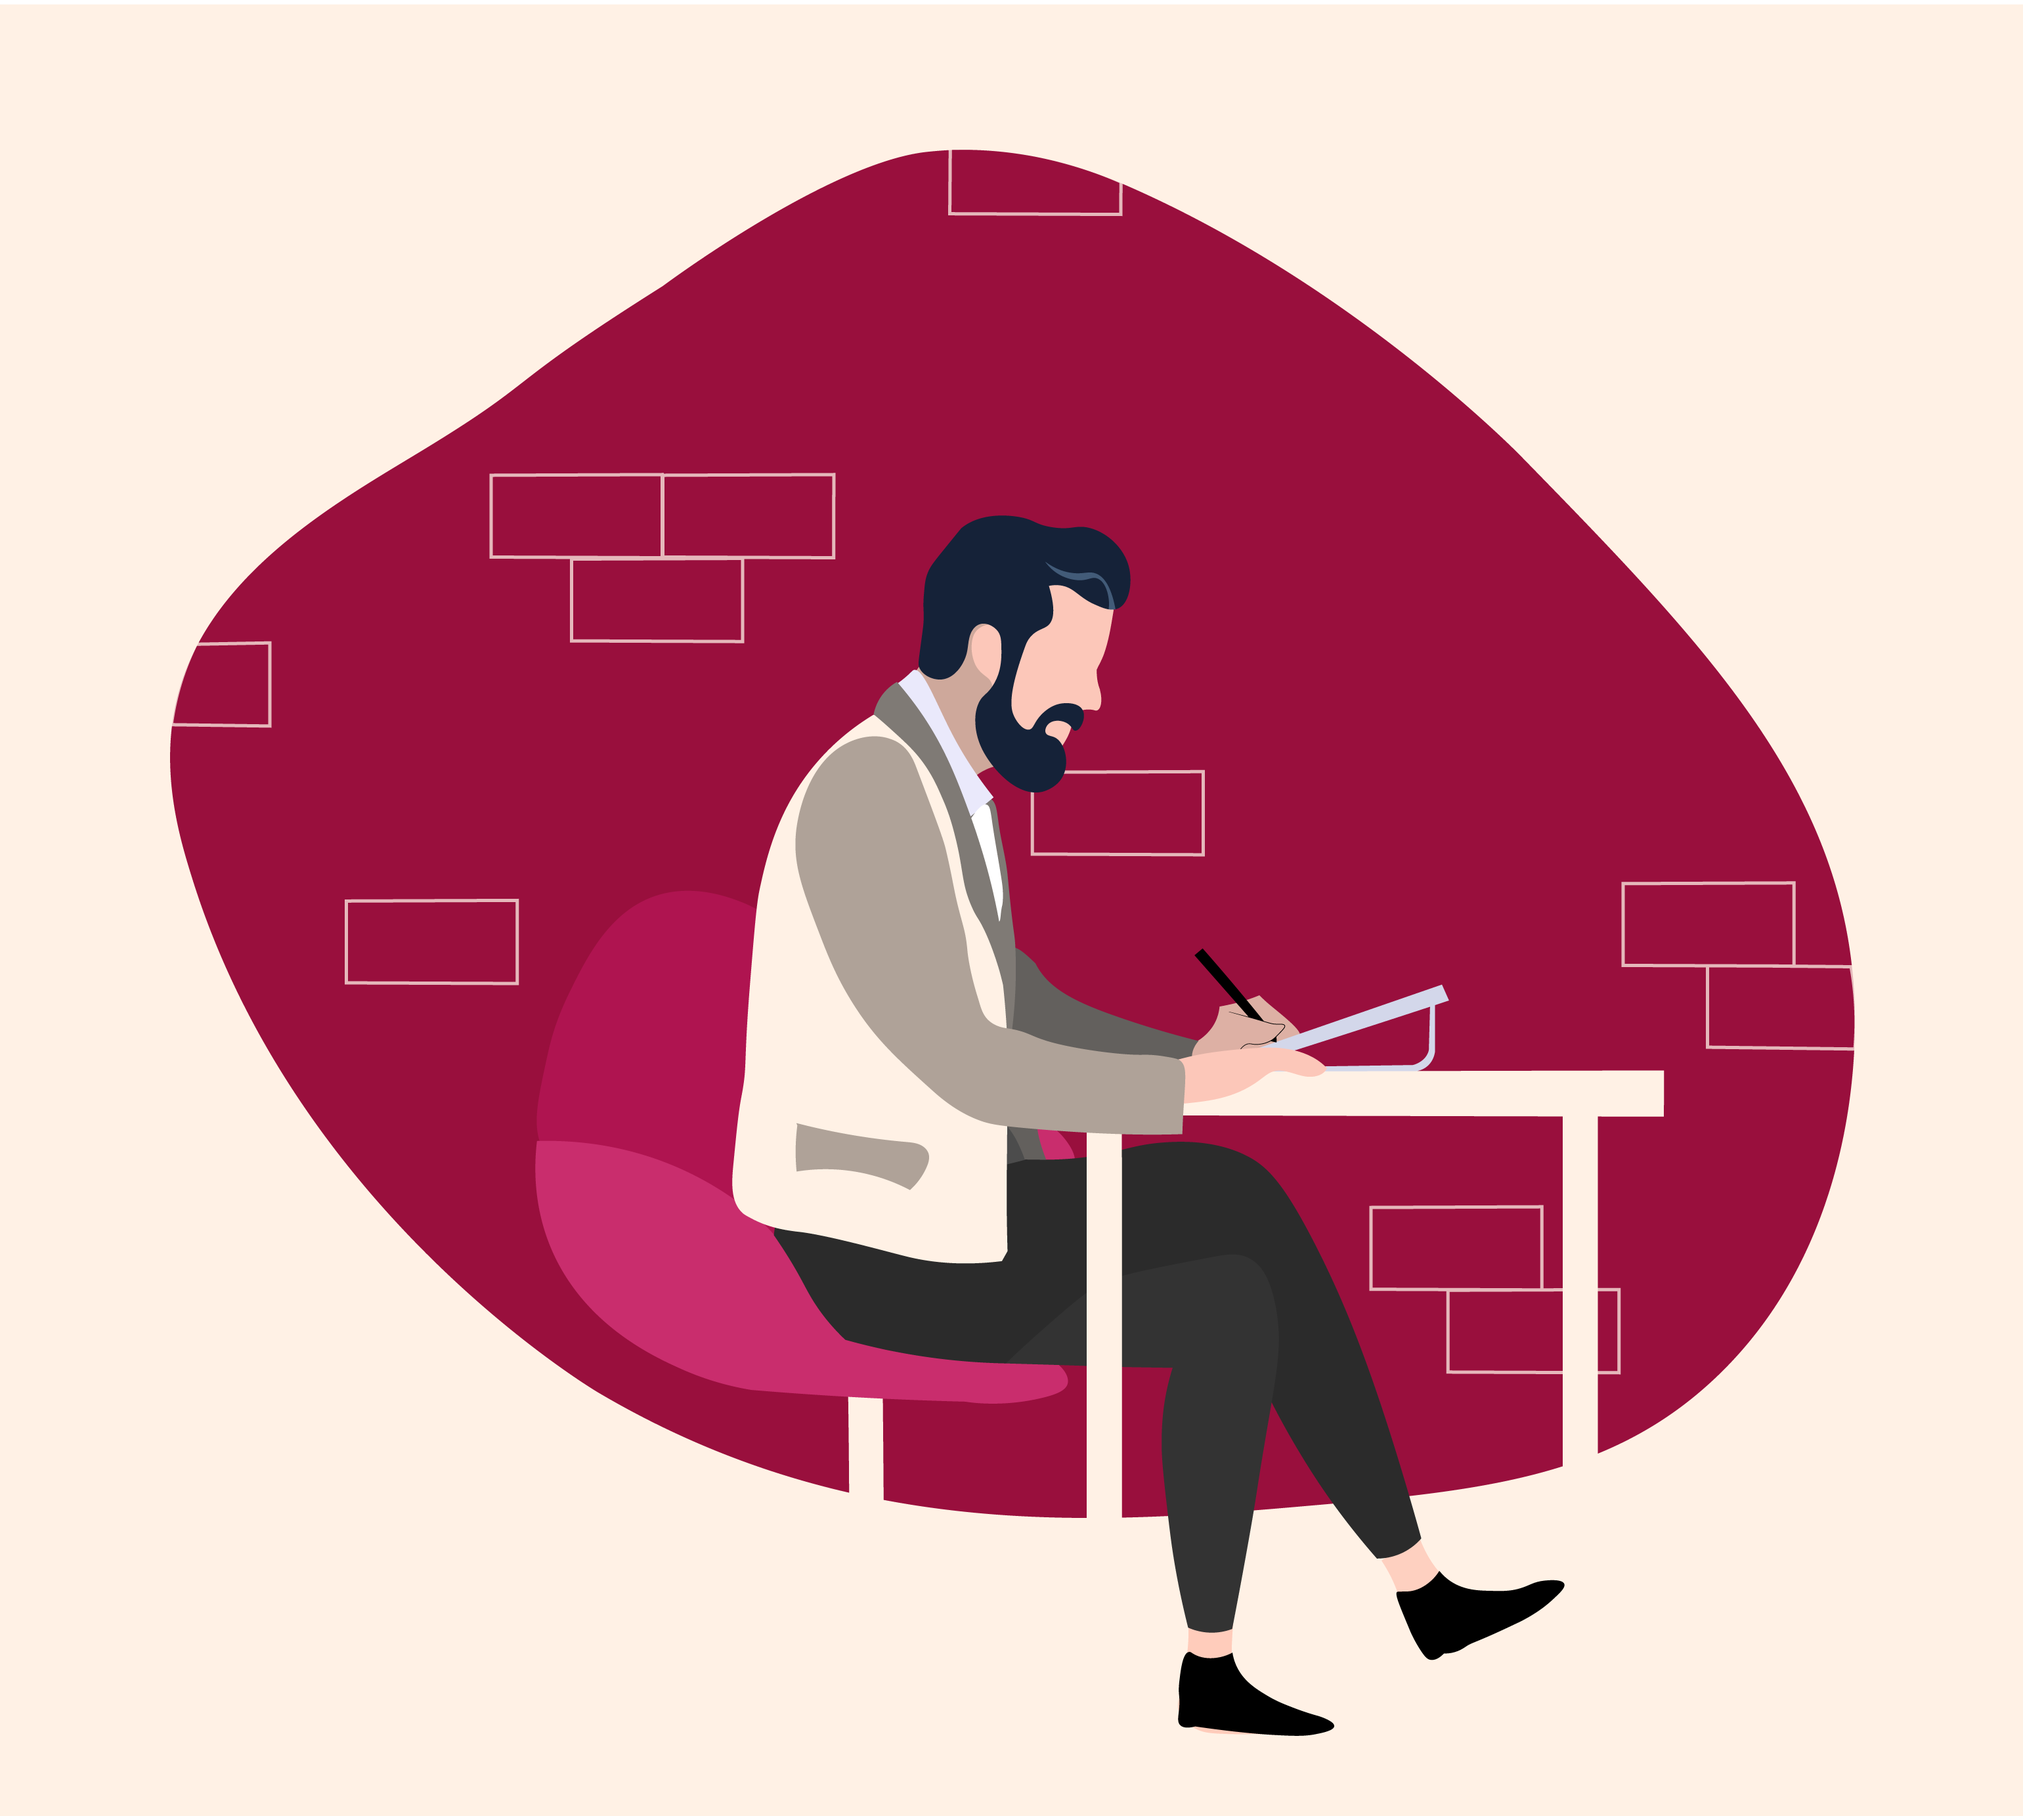
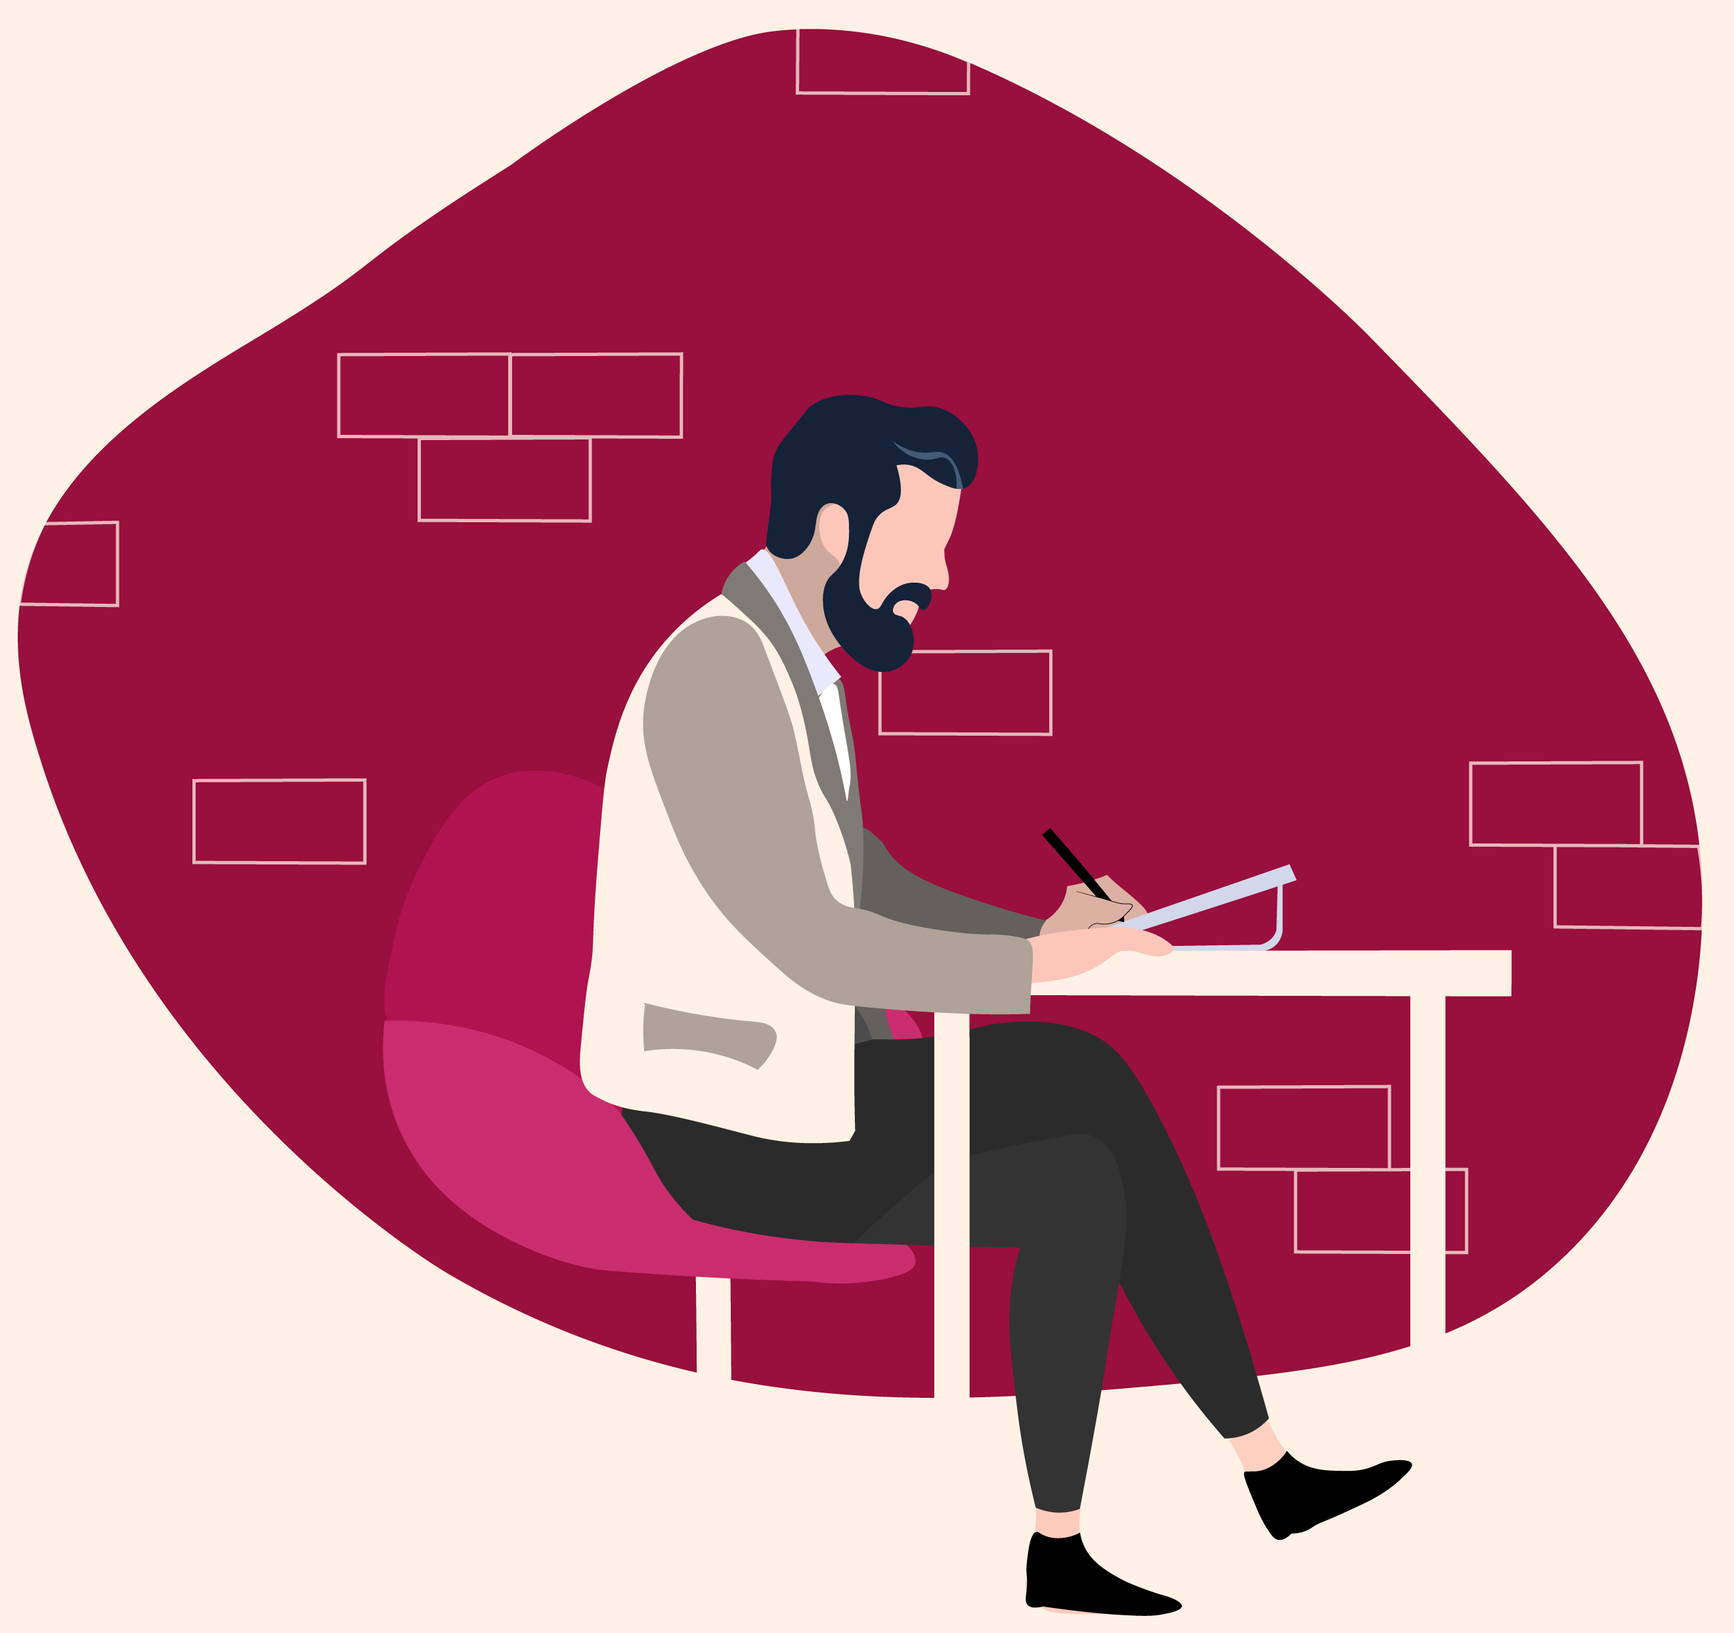
[Welcome Page Responsive Design - Now finished]

diff --git a/src/components/TitleNav.css b/src/components/TitleNav.css
@@ -6,8 +6,8 @@
 .WelcomeTitle {
     position: absolute;
     top: 29%;
-    left: 40%;
-    width: 50%;
+    left: 45%;
+    width: 18.75rem;
     transform: translate(-50%, -50%);
     color: black;
     -webkit-text-fill-color: #fff1e5; /* Will override color (regardless of order) */
@@ -20,10 +20,10 @@
 
 .WelcomeNav {
     position: absolute;
-    transform: translate(-50%, -50%); 
+    transform: translate(-50%, -50%);
     top: 45%;
-    left: 63%;
-    width: 100%;
+    left: 50%;
+    width: 22rem;
 }
 .WelcomeNav_ul {
     list-style-type: none;
@@ -48,29 +48,28 @@
 
 .WelcomeImage {
     position: absolute;
-    top: 50%;
-    left: 75%;
-    width: 50%;
+    top: 65%;
+    left: 50%;
+    width: 31.25rem;
     transform: translate(-50%, -50%);
-}
 
-.WelcomeImage__Div {
-   position:relative;
-   height: 1000%;
 }
 
 
-    
-
-@media (min-width: 40rem) {
+@media (min-width: 53rem) {
     .WelcomeTitle {
         top: 81%;
-        left: 32%;
+        left: 20%;
+        transform: translate(-50%, -50%);
     }    
     .WelcomeNav {
         top: 100%;
-        left: 32%;
-        width: 50%;
+        left: 22%;
+        transform: translate(-50%, -50%);
+    }      
+    .WelcomeImage {
+        top: 50%;
+        left: 75%;
+        transform: translate(-50%, -50%);
     }
-        
 }

diff --git a/src/components/TitleNav.js b/src/components/TitleNav.js
@@ -27,9 +27,7 @@ const TitleNav = () => {
                 </nav>
             </div>
 
-            <div className="WelcomeImage__Div">
-                <img src={SketchArtist} className="WelcomeImage"/>
-            </div>
+            <img src={SketchArtist} className="WelcomeImage"/>
         </div>
     )
 };
